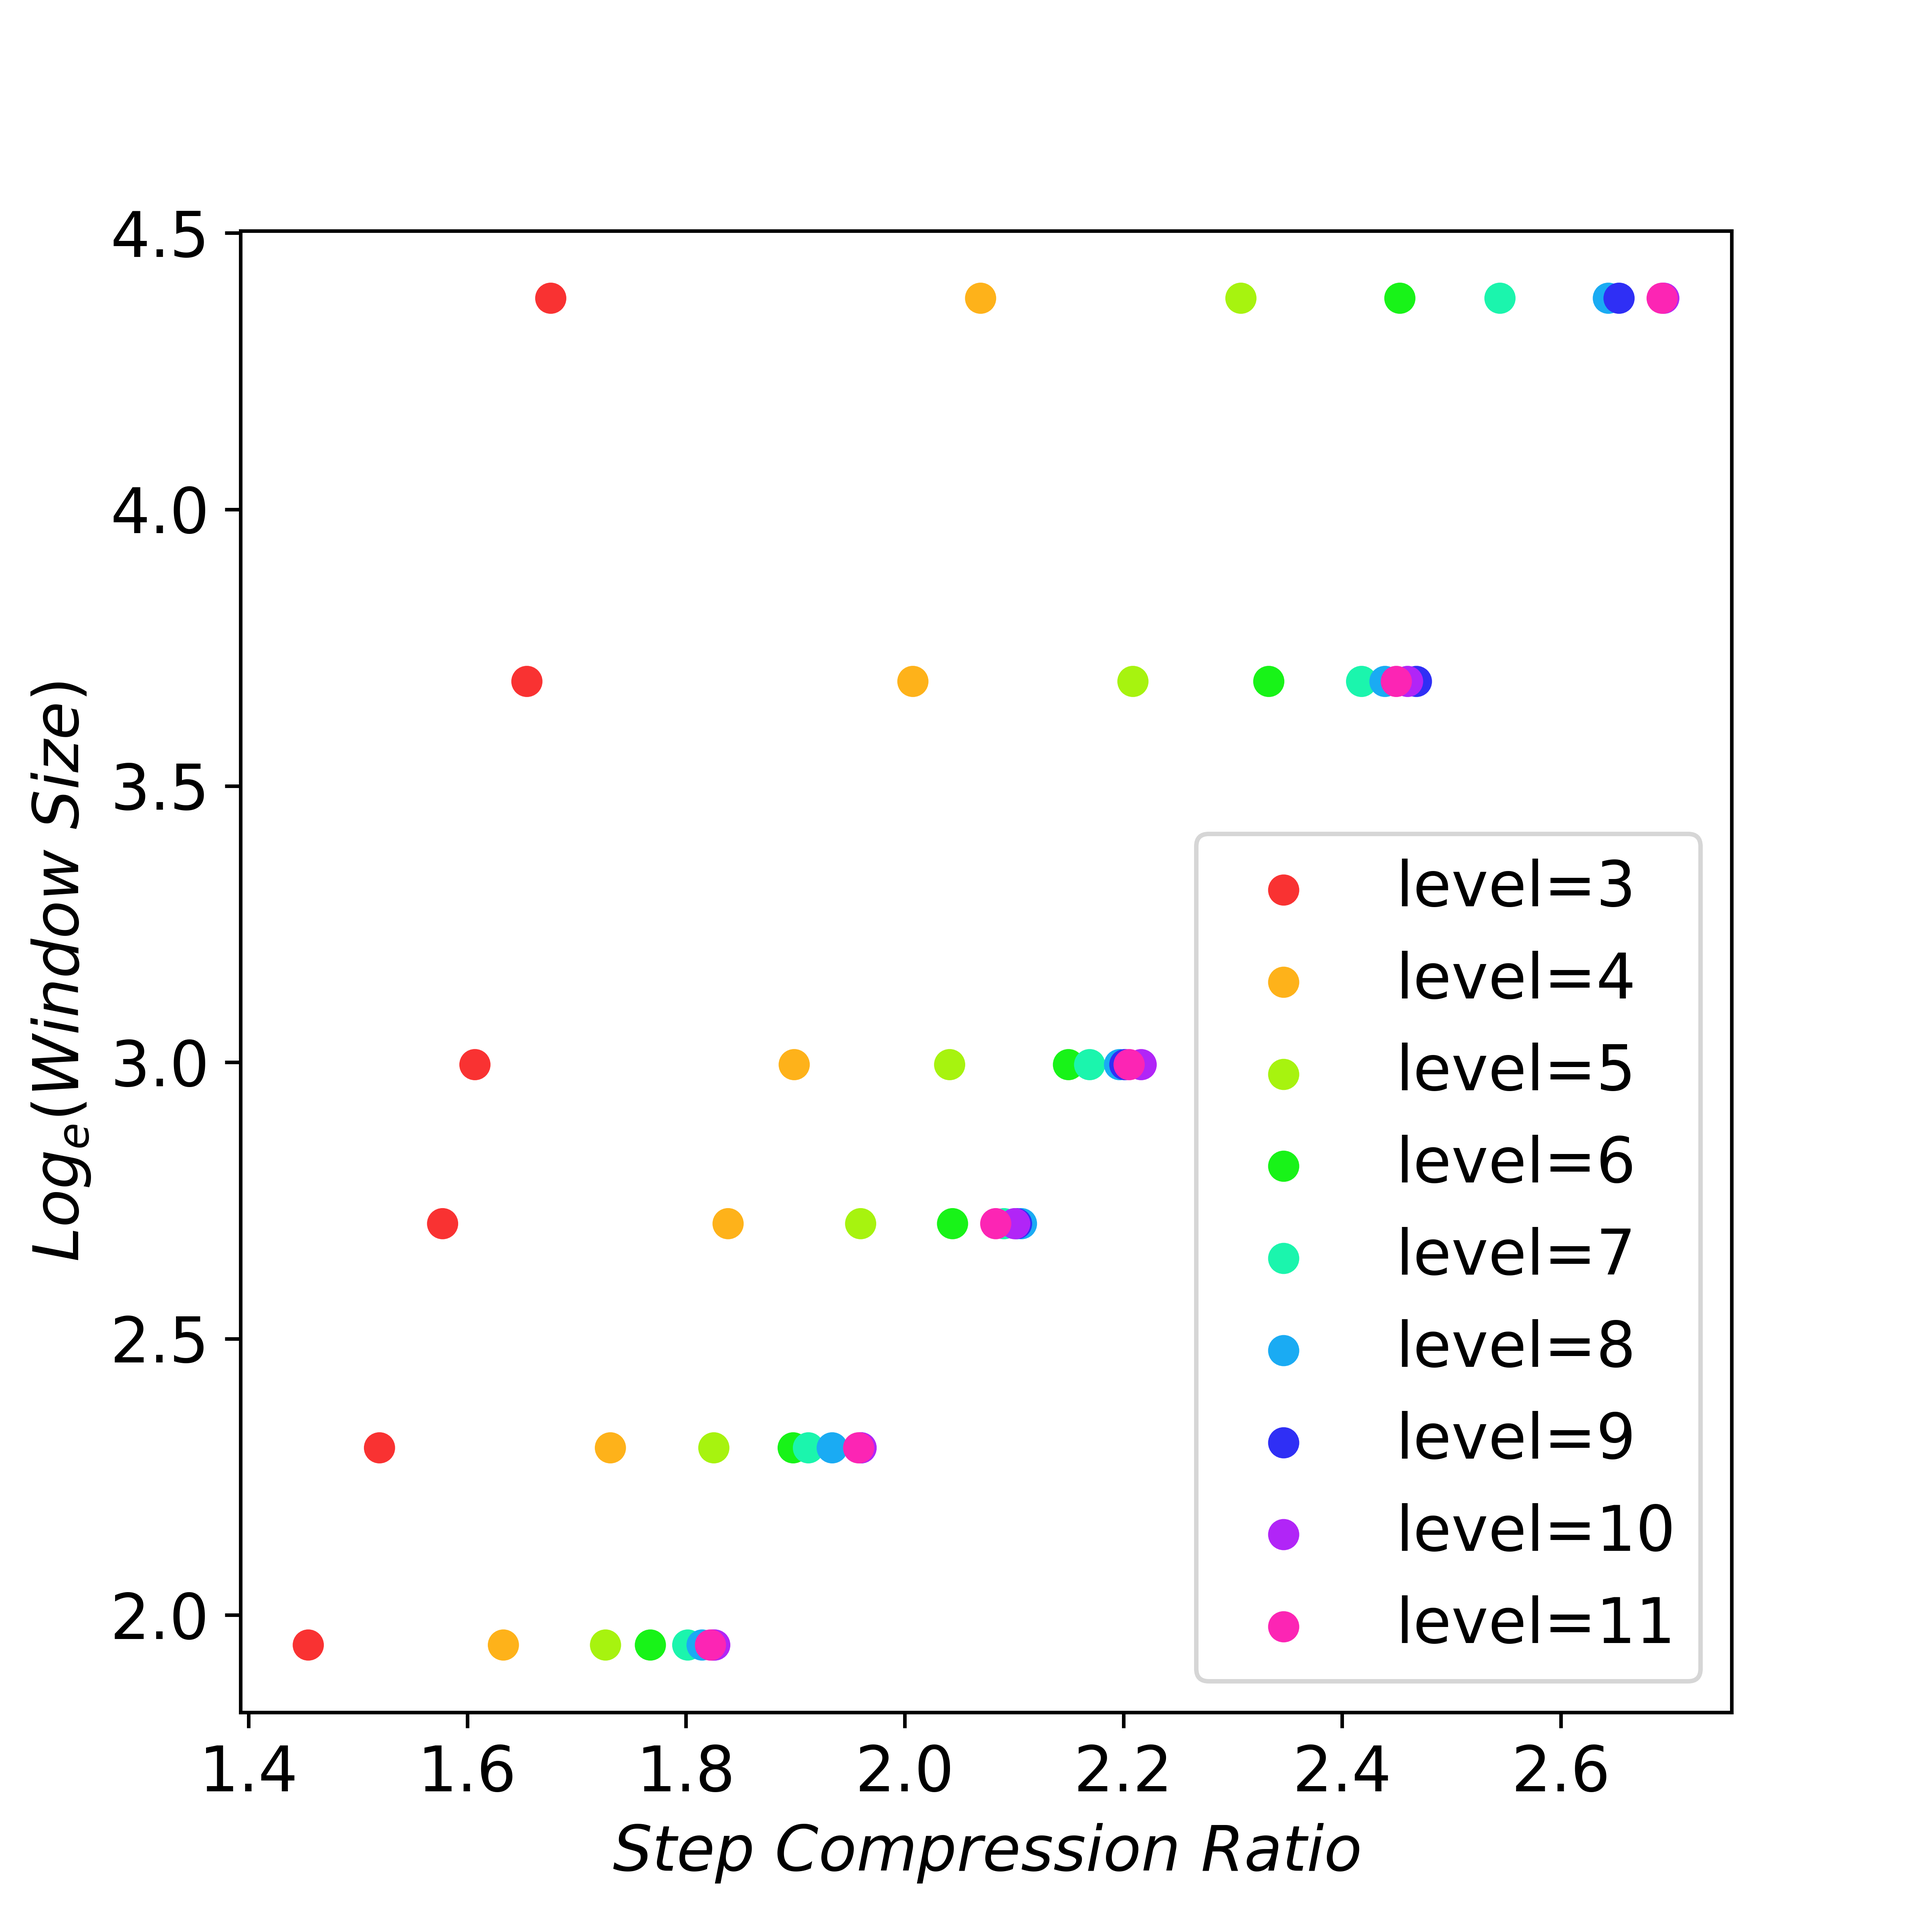
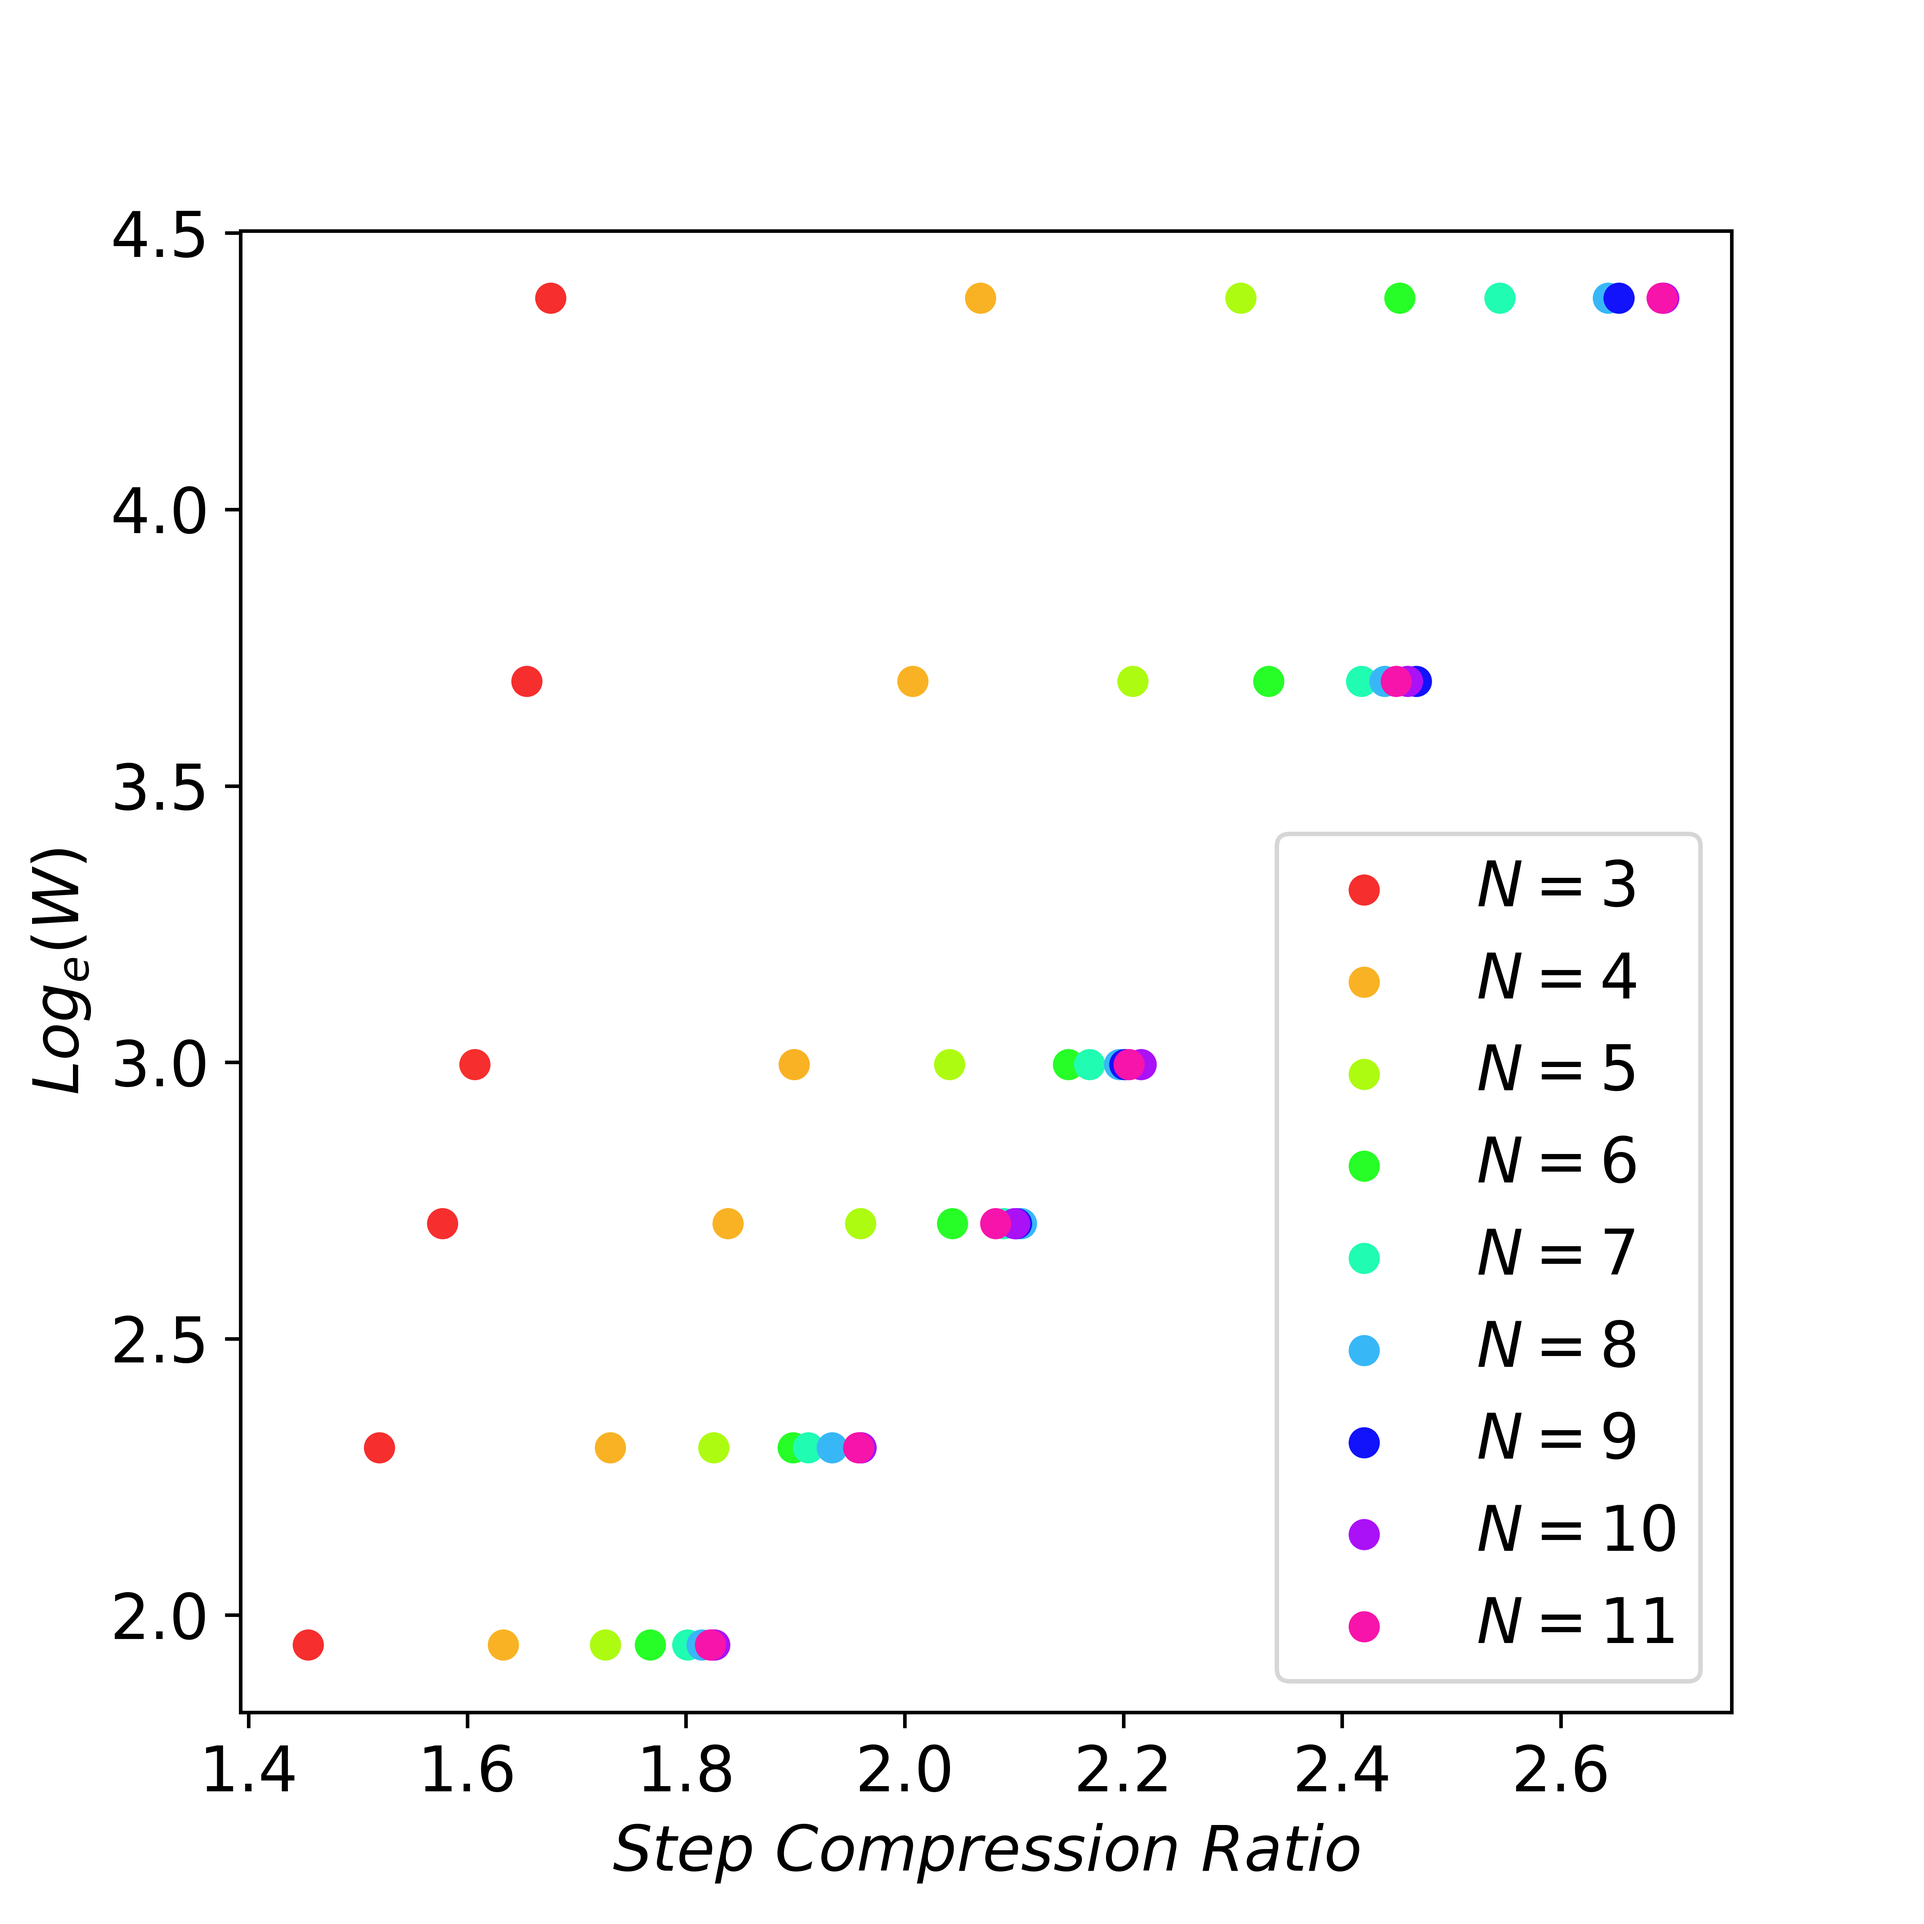
modify text to make it consistent

diff --git a/blog/2023-11-20-lookaheaddecoding.md b/blog/2023-11-20-lookaheaddecoding.md
@@ -66,7 +66,7 @@ While it is performing parallel decoding using Jacobi iterations for future toke
 
 <img src="/images/blog/laattention/lookahead-decoding.gif" style="width: 100%; max-width: 100%; margin-left: auto; margin-right: auto; margin-bottom: auto"></img>
 
-<p style="color:gray; text-align: center;">Illustration of lookahead decoding with window size 5 and 2-gram.</p>
+<p style="color:gray; text-align: center;">Figure 4: Illustration of lookahead decoding with window size 5 and 2-gram.</p>
 
 To make this decoding process more efficient, each lookahead decoding step includes a **lookahead branch** and a **verification branch** running in parallel. The lookahead branch maintains a fixed-sized multi-level window to generate n-gram token candidates from the Jacobi iteration trajectory. The verification branch verifies promising n-gram candidates simultaneously.
 
@@ -81,26 +81,26 @@ As the decoding moves forward, tokens from the earliest step are removed from th
 It is worth nothing that when $N = 2$, lookahead decoding degenerates into Jacobi decoding. 
 
 ## Verification Branch
-Besides the lookahead branch, each decoding step is accompanied with a parallel verification branch to find and verify promising N-grams so that the decoding progresses. 
-In the verification branch, we identify n-grams with their first token matching the last input token (via a simple string match); we append the n-gram to the input and verify them via an LLM forward pass. As the n-gram cache grows, it is common to identify multiple n-grams starting with the same token, thereby increasing the verification cost. In practice, we limit the size of the verification branch within a given budget.
+Besides the lookahead branch, each decoding step is accompanied by a parallel verification branch to find and verify promising N-grams so that the decoding progresses. 
+In the verification branch, we identify n-grams with their first token matching the last input token (via a simple string match); we append the n-gram to the input and verify them via an LLM forward pass. As the n-gram cache grows, it is common to identify multiple n-grams starting with the same token, thereby increasing the verification cost. Here, we define the maximum number of candidates in the verification branch as $G$. In practice, we often set this limitation proportional to $W$ (e.g., we set $G=W$ throughout our experiments).
 
 ## Lookahead and Verify In The Same Step
-Since LLM decoding is primarily bounded by memory bandwidth, we can merge lookhead decoding and verification in the same step, leveraging GPU's parallel processing and hiding overheads. This can be achieved by specifying their computation on a designed attention mask shown in Figure 5: (1) The tokens in the lookahead branch cannot see tokens in the verification branch, and vice versa. (2) Each token can only see its previous tokens and itself in both decoding and verification. We have implemented the attention mask in [HuggingFace](). Stay tuned for a more efficient custom CUDA kernel to further speed up the execution.
+Since LLM decoding is primarily bounded by memory bandwidth, we can merge lookhead branch and verification branch in the same step, leveraging GPU's parallel processing and hiding overheads. This can be achieved by specifying their computation on a designed attention mask shown in Figure 5: (1) The tokens in the lookahead branch cannot see tokens in the verification branch, and vice versa. (2) Each token can only see its previous tokens and itself in both decoding and verification. We have implemented the attention mask in [HuggingFace](https://github.com/huggingface/transformers/tree/main). Stay tuned for a more efficient custom CUDA kernel to further speed up the execution.
 
 <img src="/images/blog/laattention/mask.png" style="display:block; margin-top: auto; margin-left: auto; margin-right: auto; margin-bottom: auto; width: 100%"></img>
 
-<p style="color:gray; text-align: center;">Attention mask for lookahead decoding with 4-grams and window size 5. In this mask, two 4-gram candidates (bottom right) are verified concurrently with parallel decoding. </p>
+<p style="color:gray; text-align: center;">Figure 5: Attention mask for lookahead decoding with 4-grams and window size 5. In this mask, two 4-gram candidates (bottom right) are verified concurrently with parallel decoding. </p>
 
 ## Scaling Law of Lookahead Decoding
 Unlike speculative decode guessing and verifying **one** prediction per step, 
-Lookahead decoding can generate $W$ different N-grams per each decoding step. As $W$ and $N$ increases, the flops per step increases, but it is more likely to accept a longer N-gram. In other words, lookahead decoding allows to trade more flops for increasing the acceptance rate of a longer N-gram in a decoding step  -- which translated into reduced latency, as long as the system is not compute-bound.
+Lookahead decoding can generate $W$ different N-grams and verify $G$ candidates per each decoding step. As $W$ and $N$ increases, the flops per step increases, but it is more likely to accept a longer N-gram. In other words, lookahead decoding allows to trade more flops for increasing the acceptance rate of a longer N-gram in a decoding step  -- which translated into reduced latency, as long as the system is not compute-bound.
 
 To study this scaling behavior, given a few number of tokens to decode, we illustrate how many lookahead decoding steps are needed when enumerating different values of $N$ and $W$.
-As we can see, when the N-gram (look back window) size is large enough (i.e., $N$), the exponential investment in future token guesses (i.e., the window size $W$) can linearly reduce the number of decoding steps. We call it the **scaling law** of lookahead decoding.
+As we can see, when the N-gram (look back window) size is large enough (e.g., $N=11$), the exponential investment in future token guesses (i.e., the window size $W$) can linearly reduce the number of decoding steps. We call it the **scaling law** of lookahead decoding.
 
 <img src="/images/blog/laattention/match-scaling.png" style="display:block; margin-top: auto; margin-left: auto; margin-right: auto; margin-bottom: auto; width: 100%"></img>
 
-<p style="color:gray; text-align: center;">When $N$ is large enough, exponentially increasing window size $W$ can almost linearly reduce the number of decoding steps. (LLaMA-2-7B-chat on MT-Bench)</p>
+<p style="color:gray; text-align: center;">Figure 6: When $N$ is large enough, exponentially increasing window size $W$ can almost linearly reduce the number of decoding steps. Here we set $G=W$. (LLaMA-2-7B-chat on MT-Bench)</p>
 
 ### How to Configure $W$ and $N$ in Practice
 The FLOPs needed for each lookahead decoding step is promotional to the product of the window size and the n-gram size ($W * N$). As the scaling law reveals, when $N$ is large enough, an exponential increase in the $W$ can result in a linear reduction of decoding steps. Thus, we can achieve linear compression of the steps by trading exponentially more FLOPs.
@@ -109,7 +109,7 @@ Given this property, lookahead decoding should be used in scenarios where latenc
 For powerful GPUs (e.g., A100), lookahead decoding can better squeeze its performance by using a large $W$ and $N$ to ahieve low latency when generating long sequeneces. However, if $W$ and $N$ are too large, each lookahead decoding step might be too costly and slow down the decoding, despite reducing decoding steps. 
 Increasing $N$ together with $W$ would be best to achieve balanced performance, avoiding hitting a theoretical cap if only increasing one side. Our experimental results show that on A100, the following setting can be optimal in most cases. 
 
-| Model Setting | window | level |
+| Model Setting | $W$ | $N$ |
 |----: |:----:  | :----: |
 | 7B| 15| 5 |
 | 13B | 10 | 5|
@@ -133,7 +133,7 @@ Note that lookahead decoding achieves speedup without any finetuning nor using d
 
 **Math Problem Solving with CodeLLaMA-Instruct**. Finally, we evaluate Lookahead Decoding's performance on solving math problems. For the [GSM8K](https://arxiv.org/abs/2110.14168) dataset, we evaluated CodeLLaMA-Instruct on the first 1K questions. Results show that Lookahead Decoding can bring more than 1.8x speedups on these settings.
 
-**Per-Step Overhead with Lookahead decoding** Despite the wall-clock time reduction in the previous settings, Lookahead decoding actually requires much larger per-step FLOPs to achieve a #step compression. We set a guess token limit to limit the most number of guess n-grams per decoding step. The #token we need to decode per-step will be at most *(window + guess) * (level - 1)*. This number is approximately a multiple of the Vallina autoregressive decoding FLOPs. So we need to have roughly 120x extra FLOPs for 7B models (with level=5, window=15, and guess=15) and 56x extra FLOPs for 33B models (with level=5, window=7 and guess=7) in the previous experiments. Because of the memory-intensive bound characteristic of the LLM decoding, these extra FLOPs only bring little per-step cost and a visible step compression ratio, resulting in a notable speedup.
+**Per-Step Overhead with Lookahead decoding** Despite the wall-clock time reduction in the previous settings, Lookahead decoding actually requires much larger per-step FLOPs to achieve a #step compression. We set a guess token limit to limit the most number of guess n-grams per decoding step. The #token we need to decode per-step will be at most $(W + G) * (N - 1)*. This number is approximately a multiple of the Vallina autoregressive decoding FLOPs. So we need to have roughly 120x extra FLOPs for 7B models (with $N=5$, $W=15$, and $G=15$) and 56x extra FLOPs for 33B models (with $N=5$, $W=7$ and $G=7$) in the previous experiments. Because of the memory-intensive bound characteristic of the LLM decoding, these extra FLOPs only bring little per-step cost and a visible step compression ratio, resulting in a notable speedup.
 
 
 ## Get started with Lookahead Decoding
